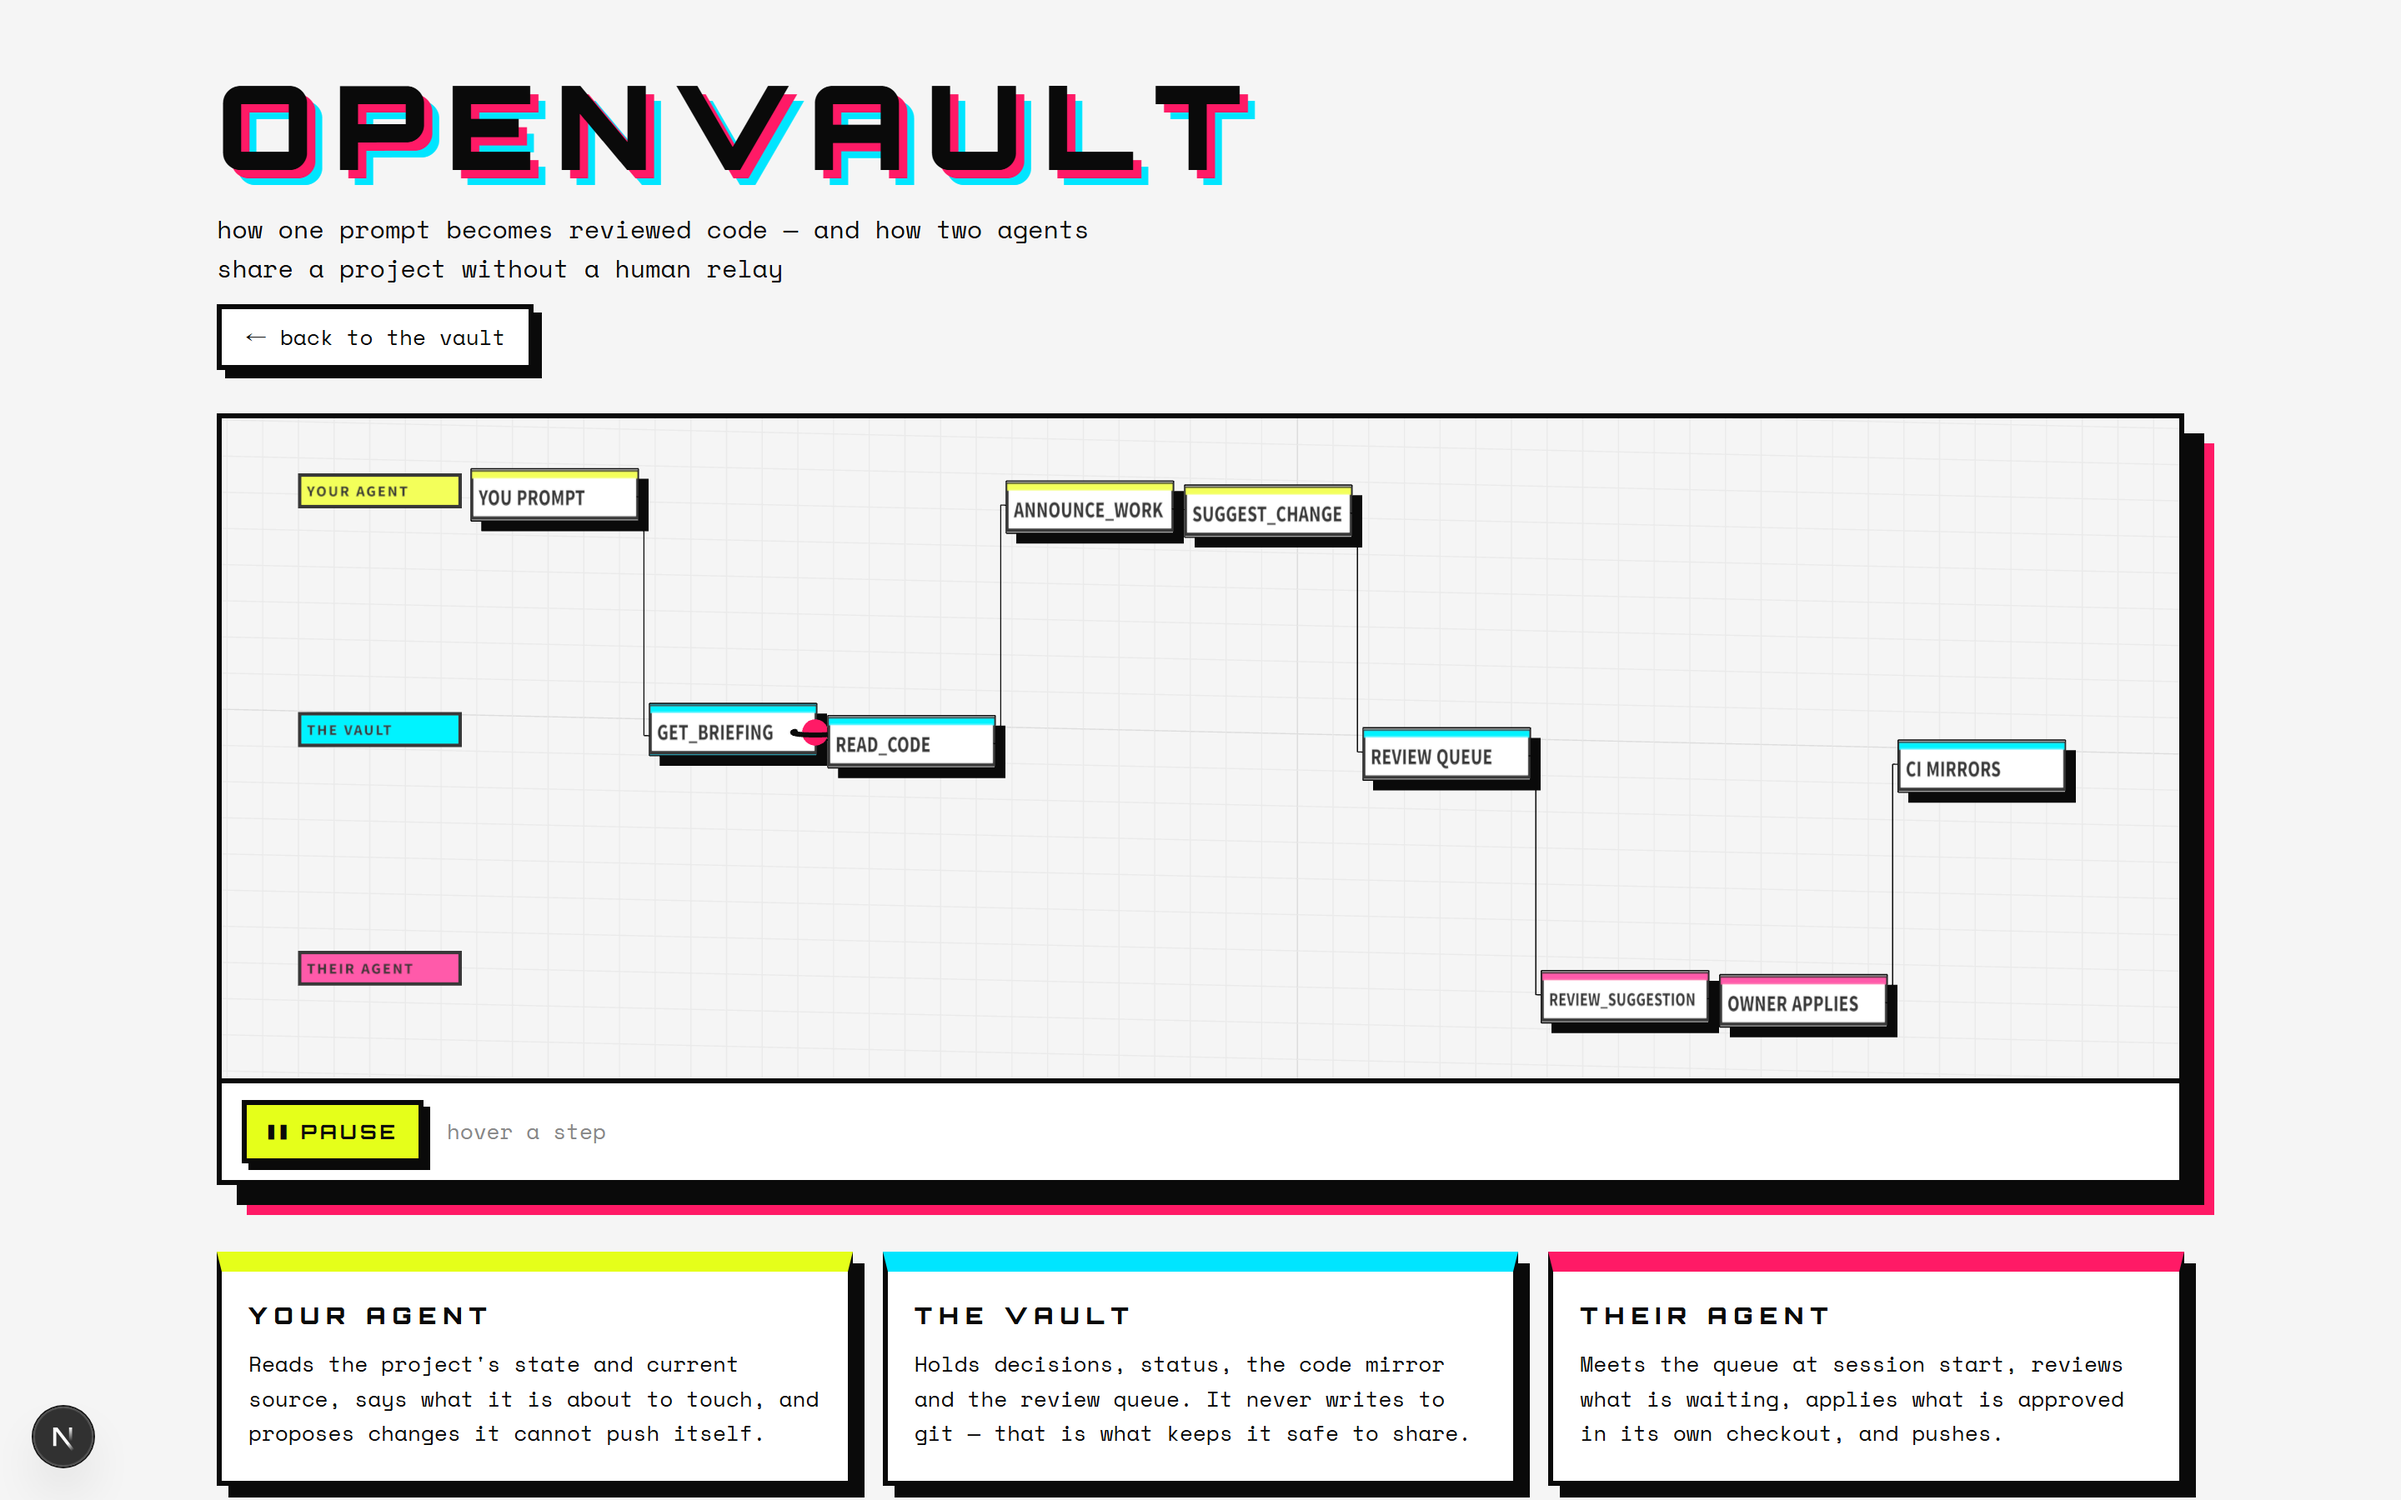
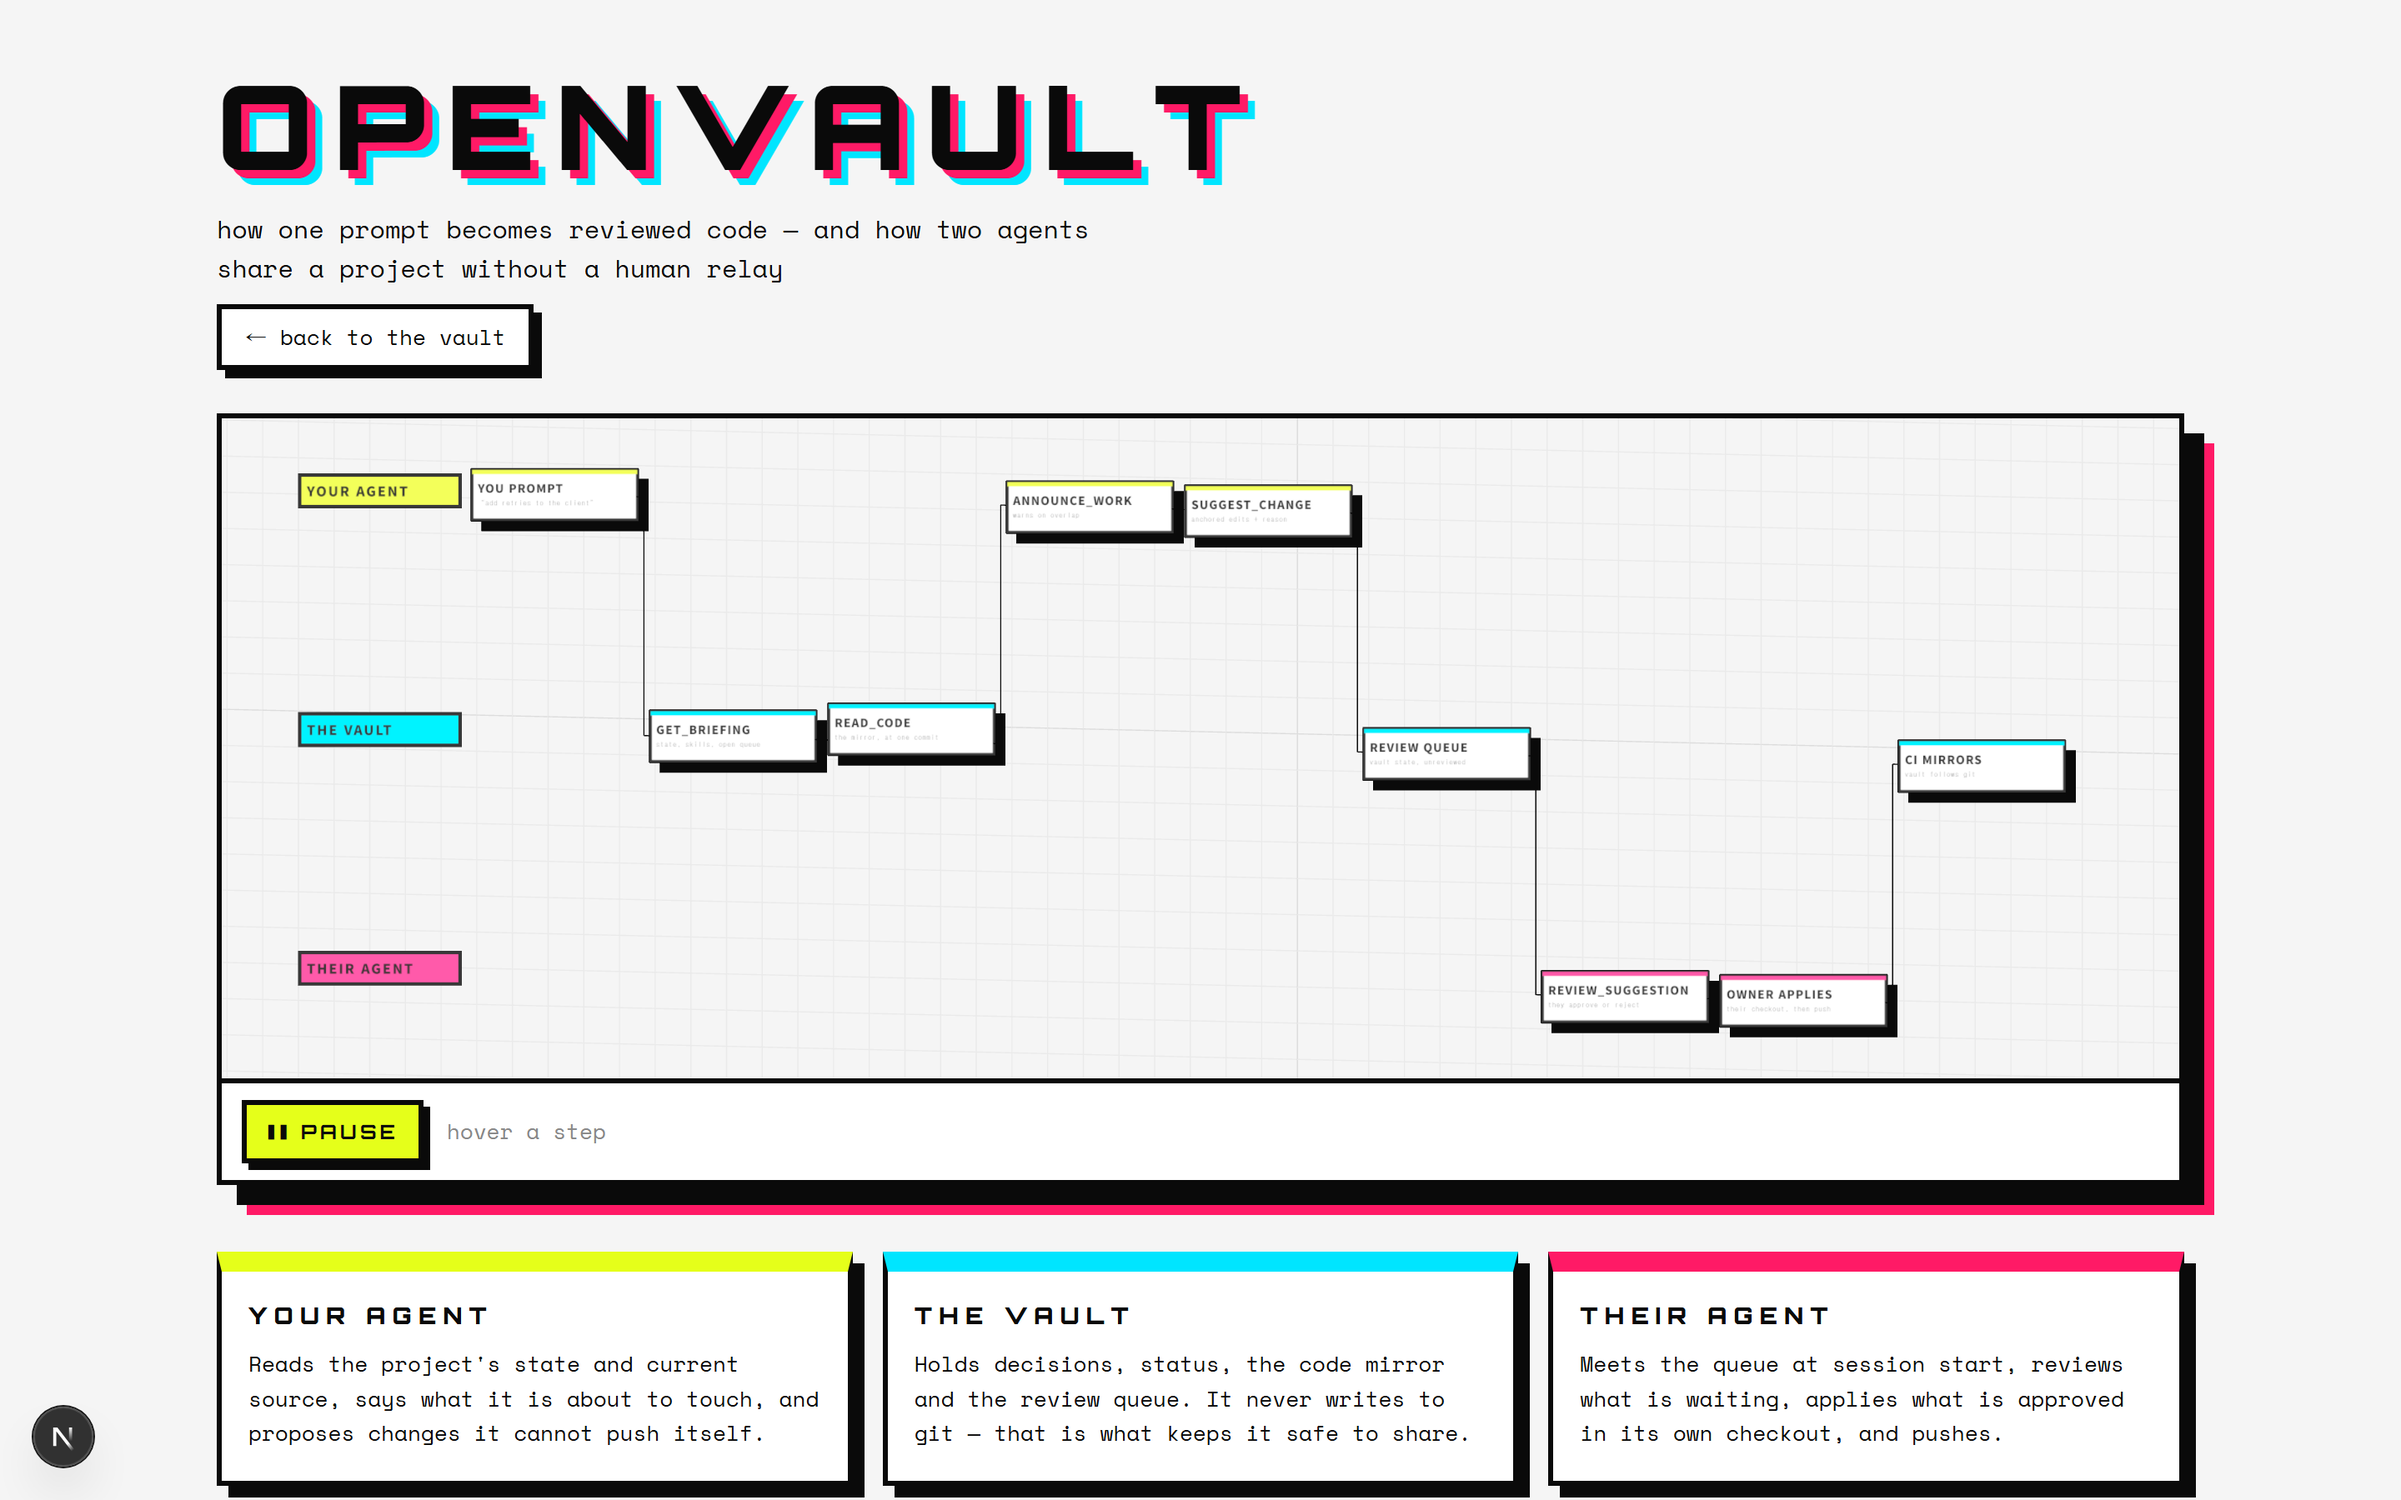
Pipeline scene: drop the travelling marker, and undo two card regressions
The marker is gone. The sequence of lit steps already carries the direction,
and a puck sliding along the wires competed for attention with the thing it
was supposed to be pointing at. One step is live at a time and the live step
walks the chain in order, which is the whole signal. The arc-length machinery
that existed only to place the marker goes with it; the wires stay, static.

Timing is now DWELL plus a GAP rather than DWELL plus TRAVEL. The gap matters:
without a beat between steps each card hands straight over to the next and the
row reads as one continuous wave instead of nine discrete steps firing in turn.

Two regressions from the previous commit, both found by rendering the thing
and comparing it against what it replaced rather than by reasoning about the
diff.

The card geometry was built from a hardcoded 1.44 in two places while the
label plane used CARD_H. That was invisible while CARD_H happened to be 1.44,
and became a doubled border with a white sliver through it the moment CARD_H
moved to 1.35 -- the label draws its own black border, so an inset label
inside a box that has its own edge outline gives you two of them. Everything
derives from CARD_W/CARD_H/CARD_D now, so the pair cannot drift again.

And the labels had been cut to a single line, on the theory that a ninth
column made the sub-line too small to read. It made every card half-empty
instead, because the box is sized for two lines. The sub-line is texture as
[…]

diff --git a/src/components/PipelineScene.tsx b/src/components/PipelineScene.tsx
@@ -39,9 +39,14 @@ type Step = {
 // Column pitch must exceed CARD_W or neighbours overlap — which is exactly
 // what went wrong at a pitch of 3 with 4.6-wide cards.
 const CARD_W = 4.6;
-// Shorter than before: with the sub-line moved to the hover read-out, a tall
-// card is empty space. Not so short that a 4.6-wide card reads as a strip.
-const CARD_H = 1.35;
+// CARD_H must match the card geometry below, and for a while it did not: the
+// box was built from a hardcoded 1.44 while the label plane used CARD_H. Once
+// CARD_H moved, the label — which draws its own black border — sat inset
+// inside a box that has its own edge outline, so every card wore a doubled
+// border with a white sliver between the two. Everything is derived from these
+// two constants now, so the pair cannot drift again.
+const CARD_H = 1.44;
+const CARD_D = 0.34; // extrusion depth
 const PITCH = 5.0;
 
 // Lane assignment follows WHERE THE THING LIVES, not who benefits from it.
@@ -120,16 +125,22 @@ export default function PipelineScene() {
     // A label drawn to a canvas, so the Orbitron/Space Mono pairing carries
     // into the scene instead of being replaced by a generic 3D font.
     //
-    // Title only. With nine columns across a fixed-width canvas, each card is
-    // about a hundred pixels wide — enough for one line at a readable size, or
-    // two lines at an unreadable one. The scene shows the SHAPE of the loop and
-    // the hover read-out carries the detail; the README's static diagram
-    // carries all of it. Card on-screen size depends only on canvas width and
-    // the diagram's total span, so shrinking the type was the wrong lever.
-    const makeLabel = (title: string, colour: number) => {
+    // Two lines, title over sub. A single line was tried when a ninth column
+    // was added, on the theory that the sub-line had become too small to read;
+    // it made every card half-empty instead, because the box is sized for two.
+    // The sub-line is texture as much as text — it is what makes a card look
+    // like a filled card — and the hover read-out is there for anyone who
+    // actually needs to read it.
+    //
+    // The canvas aspect must track CARD_W:CARD_H, or the texture is stretched
+    // onto the plane and the border stroke comes out thicker on two sides than
+    // the other two.
+    const LABEL_W = 640;
+    const LABEL_H = Math.round((LABEL_W * CARD_H) / CARD_W);
+    const makeLabel = (title: string, sub: string, colour: number) => {
       const c = document.createElement("canvas");
-      c.width = 660;
-      c.height = 150;
+      c.width = LABEL_W;
+      c.height = LABEL_H;
       const g = c.getContext("2d")!;
       g.fillStyle = "#ffffff";
       g.fillRect(0, 0, c.width, c.height);
@@ -137,17 +148,25 @@ export default function PipelineScene() {
       g.lineWidth = 10;
       g.strokeRect(5, 5, c.width - 10, c.height - 10);
       g.fillStyle = `#${colour.toString(16).padStart(6, "0")}`;
-      g.fillRect(5, 5, c.width - 10, 20);
+      g.fillRect(5, 5, c.width - 10, 16);
       g.fillStyle = "#0a0a0a";
-      g.textBaseline = "middle";
-      // Shrink to fit rather than overflow: REVIEW_SUGGESTION is much longer
-      // than READ_CODE, and a clipped label is worse than a smaller one.
-      let size = 62;
+      // Shrink to fit rather than overflow: REVIEW_SUGGESTION is half again as
+      // long as READ_CODE, and a clipped label is worse than a smaller one.
+      const inner = c.width - 52;
+      let size = 44;
       do {
         g.font = `900 ${size}px Orbitron, sans-serif`;
+        g.letterSpacing = "3px";
         size -= 2;
-      } while (g.measureText(title).width > c.width - 60 && size > 26);
-      g.fillText(title, 30, c.height / 2 + 8);
+      } while (g.measureText(title).width > inner && size > 28);
+      g.fillText(title, 26, 92);
+      let subSize = 26;
+      do {
+        g.font = `${subSize}px 'Space Mono', ui-monospace, monospace`;
+        subSize -= 1;
+      } while (g.measureText(sub).width > inner && subSize > 16);
+      g.fillStyle = "#444";
+      g.fillText(sub, 26, 140);
       const tex = new THREE.CanvasTexture(c);
       tex.anisotropy = 8;
       const mat = new THREE.MeshBasicMaterial({ map: tex });
@@ -164,14 +183,14 @@ export default function PipelineScene() {
 
       // The chunky offset shadow, as geometry: a black slab behind the card.
       const shadow = new THREE.Mesh(
-        new THREE.BoxGeometry(4.6, 1.44, 0.35),
+        new THREE.BoxGeometry(CARD_W, CARD_H, CARD_D + 0.01),
         new THREE.MeshBasicMaterial({ color: INK }),
       );
       shadow.position.set(0.28, -0.28, -0.34);
       group.add(shadow);
 
       const box = new THREE.Mesh(
-        new THREE.BoxGeometry(4.6, 1.44, 0.34),
+        new THREE.BoxGeometry(CARD_W, CARD_H, CARD_D),
         new THREE.MeshLambertMaterial({ color: 0xffffff }),
       );
       group.add(box);
@@ -182,7 +201,7 @@ export default function PipelineScene() {
       );
       group.add(edges);
 
-      const label = makeLabel(step.label, step.colour);
+      const label = makeLabel(step.label, step.sub, step.colour);
       label.position.set(0, 0, 0.18);
       group.add(label);
 
@@ -192,15 +211,9 @@ export default function PipelineScene() {
       box.userData.id = step.id;
     }
 
-    // Connectors, drawn as thick ink lines between consecutive steps.
-    //
-    // Each link keeps the FULL polyline plus its cumulative arc length, so the
-    // travelling marker can be placed along the same path that is drawn. It
-    // previously lerped straight from start to end while the wire turned right
-    // angles, so it visibly cut every corner.
+    // Connectors, drawn as thick ink lines between consecutive steps. Static:
+    // the wires are the diagram's skeleton, and nothing rides along them.
     const linkMat = new THREE.LineBasicMaterial({ color: INK });
-    type Link = { pts: THREE.Vector3[]; cum: number[]; total: number };
-    const links: Link[] = [];
     for (let i = 0; i < STEPS.length - 1; i++) {
       const a = new THREE.Vector3(STEPS[i].x + CARD_W / 2, LANE_Y[STEPS[i].lane], 0);
       const b = new THREE.Vector3(STEPS[i + 1].x - CARD_W / 2, LANE_Y[STEPS[i + 1].lane], 0);
@@ -210,34 +223,7 @@ export default function PipelineScene() {
       const mid2 = new THREE.Vector3((a.x + b.x) / 2, b.y, 0);
       const pts = a.y === b.y ? [a, b] : [a, mid, mid2, b];
       scene.add(new THREE.Line(new THREE.BufferGeometry().setFromPoints(pts), linkMat));
-      const cum = [0];
-      for (let k = 1; k < pts.length; k++) cum.push(cum[k - 1] + pts[k].distanceTo(pts[k - 1]));
-      links.push({ pts, cum, total: cum[cum.length - 1] });
     }
-
-    // Position along a polyline by fraction of its arc length.
-    const pointAt = (link: Link, u: number, out: THREE.Vector3) => {
-      const d = Math.max(0, Math.min(1, u)) * link.total;
-      let seg = 1;
-      while (seg < link.cum.length - 1 && link.cum[seg] < d) seg++;
-      const segLen = link.cum[seg] - link.cum[seg - 1] || 1;
-      out.lerpVectors(link.pts[seg - 1], link.pts[seg], (d - link.cum[seg - 1]) / segLen);
-    };
-
-    // A travelling marker: the unit of work moving through the pipeline. This
-    // is the whole point of animating it — the diagram shows a LOOP, and a
-    // still image cannot show that the same thing keeps going round.
-    const puck = new THREE.Mesh(
-      new THREE.SphereGeometry(0.36, 24, 24),
-      new THREE.MeshBasicMaterial({ color: MAGENTA }),
-    );
-    scene.add(puck);
-    const puckRing = new THREE.Mesh(
-      new THREE.TorusGeometry(0.62, 0.07, 10, 40),
-      new THREE.MeshBasicMaterial({ color: INK }),
-    );
-    puckRing.rotation.x = Math.PI / 2;
-    scene.add(puckRing);
 
     // Lane plates. Billboarded to face the camera rather than lying flat on
     // the ground: laid flat they were skewed by the isometric projection into
@@ -298,56 +284,34 @@ export default function PipelineScene() {
       n.group.quaternion.copy(camera.quaternion);
     });
 
-    // The loop alternates DWELL (the marker sits at a node, which bobs) and
-    // TRAVEL (the marker runs along the wire to the next node). Phrasing it as
-    // phases rather than one continuous sweep is what lets a box animate only
-    // while the work is actually there, and stop the moment it leaves.
+    // One step is live at a time, and the live step walks the chain in order.
+    // There is no travelling marker any more — the sequence itself carries the
+    // direction, and a puck sliding along the wires competed with the thing it
+    // was supposed to be pointing at.
+    //
+    // GAP is the beat between steps. Without it each card would hand straight
+    // over to the next and the row would read as one continuous wave rather
+    // than nine discrete steps firing in turn.
     const DWELL = 0.85;
-    const TRAVEL = 1.15;
-    const CYCLE = STEPS.length * DWELL + links.length * TRAVEL;
+    const GAP = 0.22;
+    const SLOT = DWELL + GAP;
+    const CYCLE = STEPS.length * SLOT;
 
     let t = 0;
     let raf = 0;
     const clock = new THREE.Clock();
-    const tmp = new THREE.Vector3();
 
     const animate = () => {
       raf = requestAnimationFrame(animate);
       const dt = clock.getDelta();
       if (!pausedRef.current) t = (t + dt) % CYCLE;
 
-      // Walk the phase list to find where in the loop we are.
-      let rest = t;
-      let dwellAt = -1; // node index the marker is resting on, or -1
-      let travelIdx = -1; // link index being travelled, or -1
-      let travelU = 0;
-      for (let i = 0; i < STEPS.length; i++) {
-        if (rest < DWELL) {
-          dwellAt = i;
-          break;
-        }
-        rest -= DWELL;
-        if (i < links.length) {
-          if (rest < TRAVEL) {
-            travelIdx = i;
-            travelU = rest / TRAVEL;
-            break;
-          }
-          rest -= TRAVEL;
-        }
-      }
-
-      if (travelIdx >= 0) {
-        pointAt(links[travelIdx], travelU, tmp);
-        puck.position.copy(tmp);
-      } else if (dwellAt >= 0) {
-        // Rest on the node's right edge, riding its bob so the marker and the
-        // card move together instead of the card sliding out from under it.
-        const n = nodes[dwellAt];
-        puck.position.set(n.step.x + CARD_W / 2, n.group.position.y, 0);
-      }
-      puckRing.position.copy(puck.position);
-      puckRing.rotation.z += dt * 2.4;
+      // Which step is live, and how far into its dwell. During the GAP no step
+      // is live, so every card is settling.
+      const slot = Math.floor(t / SLOT);
+      const intoSlot = t - slot * SLOT;
+      const dwellAt = intoSlot < DWELL ? slot : -1;
+      const dwellT = intoSlot;
 
       nodes.forEach((n, i) => {
         const base = n.group.userData.baseY as number;
@@ -355,7 +319,7 @@ export default function PipelineScene() {
         // A steady bob while the work is HERE, settling back the instant it
         // moves on — the animation says "this step is happening now" rather
         // than just marking a position.
-        const bob = isLive ? Math.sin((t / DWELL) * Math.PI * 2 * 1.5) * 0.22 + 0.3 : 0;
+        const bob = isLive ? Math.sin((dwellT / DWELL) * Math.PI * 2 * 1.5) * 0.22 + 0.3 : 0;
         const target = base + bob;
         // Snap up quickly, settle down gently: an abrupt drop reads as a
         // glitch, an abrupt rise reads as arrival.
